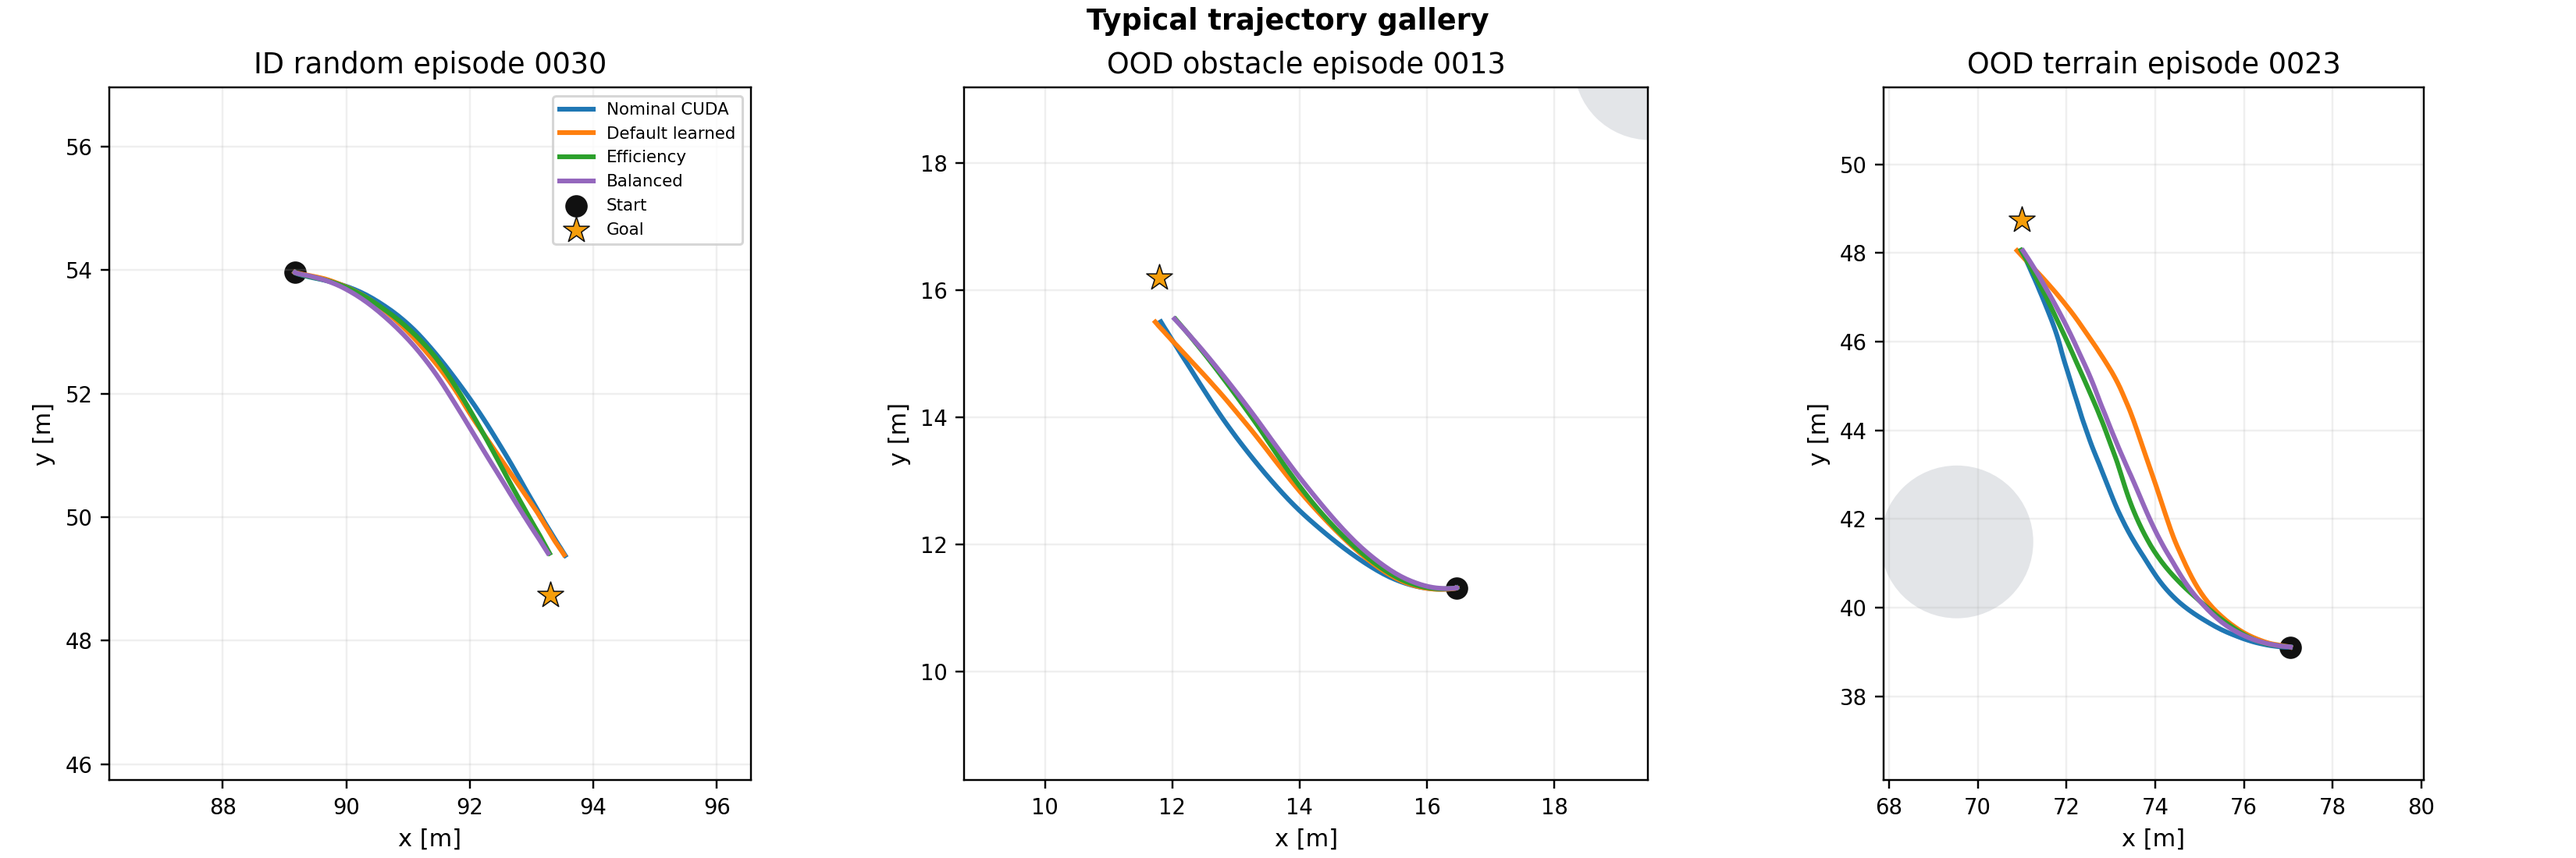
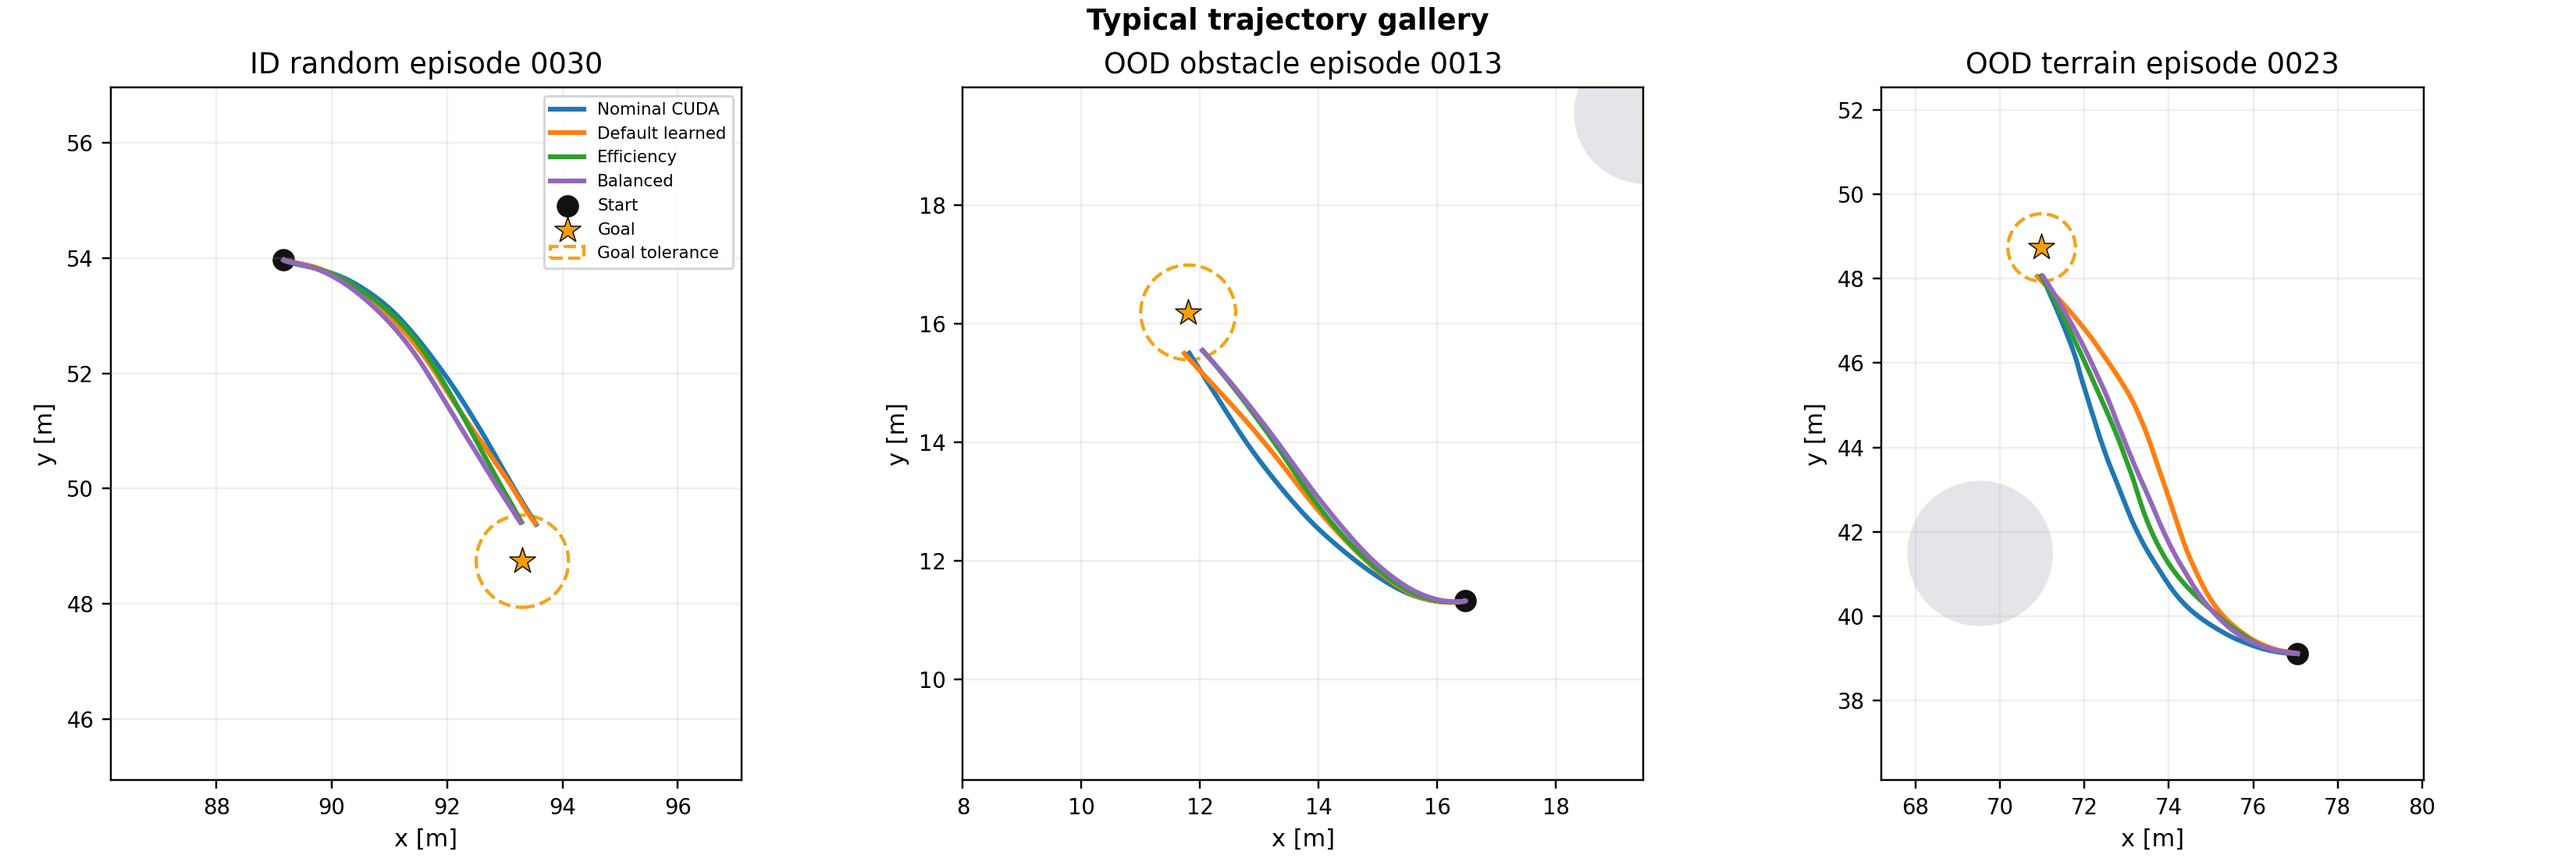
viz(stage5): show goal tolerance circle

diff --git a/tools/visualize_stage5_d_results.py b/tools/visualize_stage5_d_results.py
@@ -11,6 +11,8 @@ from typing import Any
 
 import matplotlib.pyplot as plt
 import numpy as np
+import pandas as pd
+import yaml
 from PIL import Image, ImageDraw, ImageFont
 
 
@@ -281,6 +283,140 @@ def plot_episode_distributions(rows: list[dict[str, Any]], output_path: Path) ->
     plt.close(fig)
 
 
+def _load_episode_runs(rows: list[dict[str, Any]]) -> pd.DataFrame:
+    frames = []
+    for row in rows:
+        source = Path(row["source_dir"]) / "stage5_benchmark_summary.json"
+        if not source.exists():
+            continue
+        data = _load_json(source)
+        run_df = pd.DataFrame(data.get("runs", []))
+        run_df["scenario_key"] = row["scenario"]
+        run_df["controller_key"] = row["controller"]
+        run_df["source_dir"] = row["source_dir"]
+        frames.append(run_df)
+    if not frames:
+        return pd.DataFrame()
+    return pd.concat(frames, ignore_index=True)
+
+
+def _choose_typical_episodes(run_df: pd.DataFrame) -> dict[str, int]:
+    choices = {}
+    current = run_df[run_df["controller_key"] == "current 0.5/3.5/1.0"]
+    nominal = run_df[run_df["controller_key"] == "nominal"][
+        ["scenario_key", "episode_id", "steps"]
+    ].rename(columns={"steps": "nominal_steps"})
+    paired = current.merge(nominal, on=["scenario_key", "episode_id"], how="inner")
+    paired["delta_steps"] = paired["steps"] - paired["nominal_steps"]
+    for scenario, sub in paired.groupby("scenario_key"):
+        median_delta = sub["delta_steps"].median()
+        idx = (sub["delta_steps"] - median_delta).abs().idxmin()
+        choices[scenario] = int(sub.loc[idx, "episode_id"])
+    return choices
+
+
+def _run_path(run_df: pd.DataFrame, scenario: str, controller: str, episode_id: int) -> Path:
+    row = run_df[
+        (run_df["scenario_key"] == scenario)
+        & (run_df["controller_key"] == controller)
+        & (run_df["episode_id"] == episode_id)
+    ].iloc[0]
+    return Path(row["results_path"])
+
+
+def _load_config(config_path: Path) -> dict[str, Any]:
+    return yaml.safe_load(config_path.read_text(encoding="utf-8"))
+
+
+def _load_obstacles(config_path: Path) -> list[tuple[float, float, float]]:
+    config = _load_config(config_path)
+    obstacles = []
+    for item in config.get("obstacles", {}).get("virtual", []):
+        if len(item) >= 3:
+            obstacles.append((float(item[0]), float(item[1]), float(item[2])))
+    return obstacles
+
+
+def _load_goal_tolerance(config_path: Path) -> float:
+    config = _load_config(config_path)
+    return float(config.get("simulation", {}).get("minimum_distance", 0.0))
+
+
+def plot_trajectory_gallery(rows: list[dict[str, Any]], output_path: Path) -> None:
+    run_df = _load_episode_runs(rows)
+    choices = _choose_typical_episodes(run_df)
+    fig, axes = plt.subplots(1, 3, figsize=(15, 5), constrained_layout=True)
+    fig.suptitle("S5-010 typical trajectory gallery", fontsize=16, fontweight="bold")
+
+    for ax, scenario in zip(axes, SCENARIO_LABELS):
+        episode_id = choices.get(scenario, 0)
+        trajectories = {}
+        for controller in CONTROLLER_ORDER:
+            path = _run_path(run_df, scenario, controller, episode_id)
+            trajectories[controller] = pd.read_csv(path / "trajectory.csv")
+
+        ref = next(iter(trajectories.values()))
+        goal_x = float(ref["x_des"].iloc[0])
+        goal_y = float(ref["y_des"].iloc[0])
+        start_x = float(ref["x"].iloc[0])
+        start_y = float(ref["y"].iloc[0])
+        all_x = np.concatenate([df["x"].to_numpy() for df in trajectories.values()])
+        all_y = np.concatenate([df["y"].to_numpy() for df in trajectories.values()])
+        config_path = _run_path(run_df, scenario, "nominal", episode_id) / "config.yaml"
+        goal_tolerance = _load_goal_tolerance(config_path)
+        xmin = min(float(all_x.min()), goal_x - goal_tolerance, start_x) - 3.0
+        xmax = max(float(all_x.max()), goal_x + goal_tolerance, start_x) + 3.0
+        ymin = min(float(all_y.min()), goal_y - goal_tolerance, start_y) - 3.0
+        ymax = max(float(all_y.max()), goal_y + goal_tolerance, start_y) + 3.0
+
+        for ox, oy, radius in _load_obstacles(config_path):
+            if xmin - radius <= ox <= xmax + radius and ymin - radius <= oy <= ymax + radius:
+                ax.add_patch(plt.Circle((ox, oy), radius, color="#9ca3af", alpha=0.28, linewidth=0))
+
+        for controller, df in trajectories.items():
+            ax.plot(
+                df["x"],
+                df["y"],
+                color=COLORS[controller],
+                linewidth=2.0,
+                label=CONTROLLER_LABELS[controller].replace("\n", " "),
+            )
+        ax.scatter([start_x], [start_y], marker="o", s=70, color="#111827", label="Start")
+        ax.scatter(
+            [goal_x],
+            [goal_y],
+            marker="*",
+            s=130,
+            color="#f59e0b",
+            edgecolor="#111827",
+            linewidth=0.5,
+            label="Goal",
+        )
+        if goal_tolerance > 0.0:
+            ax.add_patch(
+                plt.Circle(
+                    (goal_x, goal_y),
+                    goal_tolerance,
+                    fill=False,
+                    linestyle="--",
+                    linewidth=1.4,
+                    edgecolor="#f59e0b",
+                    alpha=0.95,
+                    label="Goal tolerance",
+                )
+            )
+        ax.set_title(f"{SCENARIO_LABELS.get(scenario, scenario)} episode {episode_id:04d}")
+        ax.set_aspect("equal", adjustable="box")
+        ax.set_xlim(xmin, xmax)
+        ax.set_ylim(ymin, ymax)
+        ax.grid(alpha=0.2)
+        ax.set_xlabel("x [m]")
+        ax.set_ylabel("y [m]")
+    axes[0].legend(fontsize=7, loc="best")
+    fig.savefig(output_path, dpi=180)
+    plt.close(fig)
+
+
 def create_summary_gif(rows: list[dict[str, Any]], output_path: Path) -> None:
     width, height = 1200, 720
     bg = "#f8fafc"
@@ -431,6 +567,9 @@ def write_html(output_dir: Path) -> None:
   <img src="s5_010_tradeoff_scatter.png" alt="Tradeoff scatter plot">
   <h2>Runtime</h2>
   <img src="s5_010_runtime_bars.png" alt="Runtime bar chart">
+  <h2>Typical Trajectory Gallery</h2>
+  <p>The dashed circle around each goal is the configured arrival tolerance from <code>simulation.minimum_distance</code>. A trajectory is counted as successful once it enters this circle, so it does not need to end exactly on the star marker.</p>
+  <img src="s5_010_trajectory_gallery.png" alt="Typical trajectory gallery with goal tolerance circles">
   <h2>Episode Distributions</h2>
   <img src="s5_010_episode_distributions.png" alt="Episode distribution boxplots">
   <p>Metrics CSV: <a href="s5_010_visual_metrics.csv">s5_010_visual_metrics.csv</a></p>
@@ -479,6 +618,7 @@ def main() -> None:
     plot_metric_deltas(rows, output_dir / "s5_010_metric_deltas.png")
     plot_tradeoff(rows, output_dir / "s5_010_tradeoff_scatter.png")
     plot_runtime(rows, output_dir / "s5_010_runtime_bars.png")
+    plot_trajectory_gallery(rows, output_dir / "s5_010_trajectory_gallery.png")
     plot_episode_distributions(rows, output_dir / "s5_010_episode_distributions.png")
     create_summary_gif(rows, gif_dir / "s5_010_summary_slides.gif")
     write_html(output_dir)
@@ -495,6 +635,7 @@ def main() -> None:
             "s5_010_metric_deltas.png",
             "s5_010_tradeoff_scatter.png",
             "s5_010_runtime_bars.png",
+            "s5_010_trajectory_gallery.png",
             "s5_010_episode_distributions.png",
             "gifs/s5_010_summary_slides.gif",
         ],

diff --git a/tools/plot_stage5_results.py b/tools/plot_stage5_results.py
@@ -390,6 +390,11 @@ def load_obstacles(config_path: Path) -> list[tuple[float, float, float]]:
     return obstacles
 
 
+def load_goal_tolerance(config_path: Path) -> float:
+    config = yaml.safe_load(config_path.read_text(encoding="utf-8"))
+    return float(config.get("simulation", {}).get("minimum_distance", 0.0))
+
+
 def save_trajectory_gallery(run_df: pd.DataFrame, paired_df: pd.DataFrame, figure_dir: Path) -> Path:
     choices = choose_typical_episodes(paired_df)
     fig, axes = plt.subplots(1, 3, figsize=(15, 5), constrained_layout=True)
@@ -406,12 +411,13 @@ def save_trajectory_gallery(run_df: pd.DataFrame, paired_df: pd.DataFrame, figur
         goal_y = float(next(iter(trajectories.values()))["y_des"].iloc[0])
         start_x = float(next(iter(trajectories.values()))["x"].iloc[0])
         start_y = float(next(iter(trajectories.values()))["y"].iloc[0])
-        xmin = min(float(all_x.min()), goal_x, start_x) - 3.0
-        xmax = max(float(all_x.max()), goal_x, start_x) + 3.0
-        ymin = min(float(all_y.min()), goal_y, start_y) - 3.0
-        ymax = max(float(all_y.max()), goal_y, start_y) + 3.0
-
         config_path = run_path(run_df, scenario, "nominal", episode) / "config.yaml"
+        goal_tolerance = load_goal_tolerance(config_path)
+        xmin = min(float(all_x.min()), goal_x - goal_tolerance, start_x) - 3.0
+        xmax = max(float(all_x.max()), goal_x + goal_tolerance, start_x) + 3.0
+        ymin = min(float(all_y.min()), goal_y - goal_tolerance, start_y) - 3.0
+        ymax = max(float(all_y.max()), goal_y + goal_tolerance, start_y) + 3.0
+
         for ox, oy, radius in load_obstacles(config_path):
             if xmin - radius <= ox <= xmax + radius and ymin - radius <= oy <= ymax + radius:
                 circle = plt.Circle((ox, oy), radius, color="#9ca3af", alpha=0.28, linewidth=0)
@@ -421,6 +427,18 @@ def save_trajectory_gallery(run_df: pd.DataFrame, paired_df: pd.DataFrame, figur
             ax.plot(df["x"], df["y"], color=COLORS[controller], linewidth=2.0, label=CONTROLLER_LABELS[controller])
         ax.scatter([start_x], [start_y], marker="o", s=70, color="#111111", label="Start")
         ax.scatter([goal_x], [goal_y], marker="*", s=130, color="#f59e0b", edgecolor="#111111", linewidth=0.5, label="Goal")
+        if goal_tolerance > 0.0:
+            goal_circle = plt.Circle(
+                (goal_x, goal_y),
+                goal_tolerance,
+                fill=False,
+                linestyle="--",
+                linewidth=1.4,
+                edgecolor="#f59e0b",
+                alpha=0.95,
+                label="Goal tolerance",
+            )
+            ax.add_patch(goal_circle)
         ax.set_title(f"{SCENARIO_LABELS[scenario]} episode {episode:04d}")
         ax.set_aspect("equal", adjustable="box")
         ax.set_xlim(xmin, xmax)
@@ -549,7 +567,7 @@ S5-010 supports multiple calibrated learned-FDM-MPPI operating modes, not a sing
 - `stage5_main_result_bars.png`: mean metric comparison across scenarios and controllers.
 - `stage5_paired_delta_boxplots.png`: per-episode learned-minus-nominal deltas for final distance, steps, clearance, terrain risk, smoothness, jerk, and runtime.
 - `stage5_pareto_scatter.png`: steps-vs-terrain-risk Pareto view.
-- `stage5_trajectory_gallery.png`: representative paired trajectories for the three scenarios.
+- `stage5_trajectory_gallery.png`: representative paired trajectories for the three scenarios. The dashed circle around each goal is `simulation.minimum_distance`, i.e. the arrival tolerance.
 - `stage5_runtime_bars.png`: runtime comparison.
 - `stage5_failure_tradeoff_analysis.png`: compact trade-off summary.
 

diff --git a/docs/agent_memory/STAGE6_RESULT_PACKAGE.md b/docs/agent_memory/STAGE6_RESULT_PACKAGE.md
@@ -55,7 +55,7 @@ S5-010 supports multiple calibrated learned-FDM-MPPI operating modes, not a sing
 - `stage5_main_result_bars.png`: mean metric comparison across scenarios and controllers.
 - `stage5_paired_delta_boxplots.png`: per-episode learned-minus-nominal deltas for final distance, steps, clearance, terrain risk, smoothness, jerk, and runtime.
 - `stage5_pareto_scatter.png`: steps-vs-terrain-risk Pareto view.
-- `stage5_trajectory_gallery.png`: representative paired trajectories for the three scenarios.
+- `stage5_trajectory_gallery.png`: representative paired trajectories for the three scenarios. The dashed circle around each goal is `simulation.minimum_distance`, i.e. the arrival tolerance.
 - `stage5_runtime_bars.png`: runtime comparison.
 - `stage5_failure_tradeoff_analysis.png`: compact trade-off summary.
 

diff --git a/docs/agent_memory/EXPERIMENT_LOG.md b/docs/agent_memory/EXPERIMENT_LOG.md
@@ -1280,6 +1280,8 @@ Cross-scenario learned deltas versus nominal:
   - `tables/stage5/stage5_paired_episode_deltas.csv`
   - `tables/stage5/stage5_runtime.csv/md`
   - `tables/stage5/stage5_result_package_manifest.json`
+- Visualization note:
+  - trajectory gallery plots the goal marker and a dashed goal-tolerance circle from `simulation.minimum_distance`, so successful trajectories do not need to terminate exactly on the star marker.
 - Generated local package:
   - `results/stage6_result_package/stage5_result_package.zip`
 - Style:
